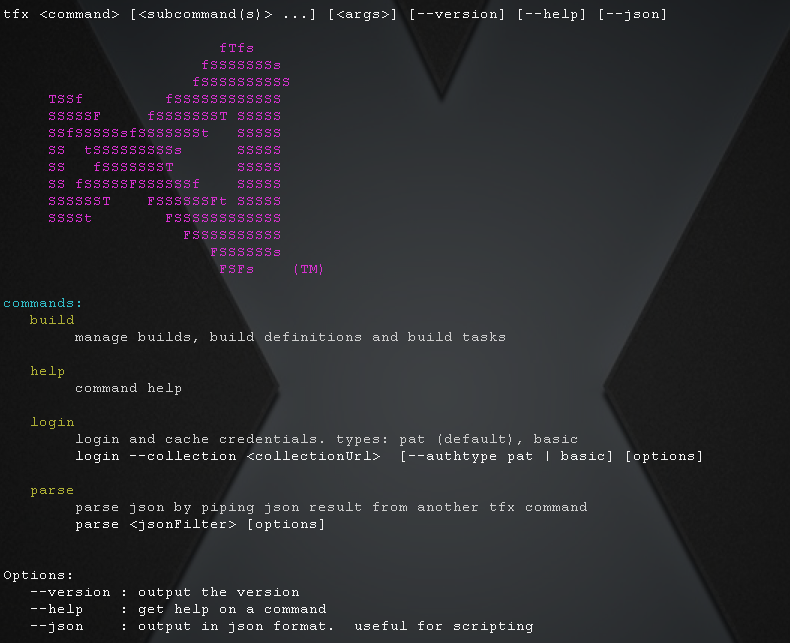
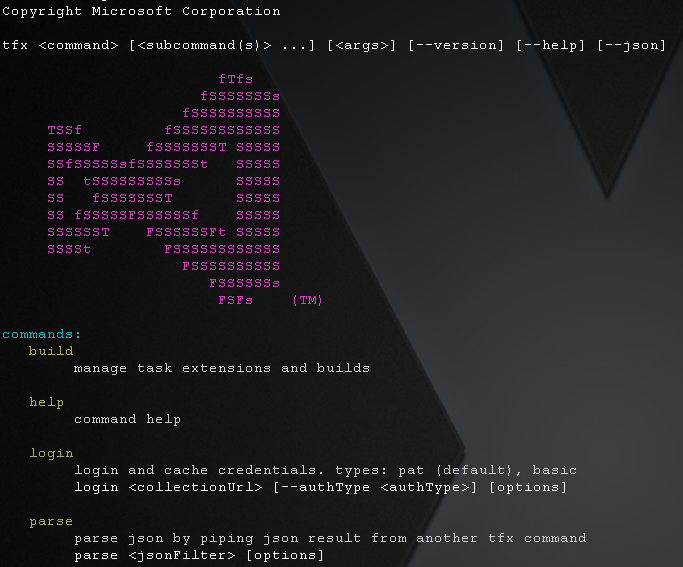
tfx extensions utility

diff --git a/app/exec/build.ts b/app/exec/build.ts
@@ -1,7 +1,7 @@
 import cmdm = require('../lib/tfcommand');
 
 export function describe(): string {
-    return 'manage builds, build definitions and build tasks';
+    return 'manage task extensions and builds';
 }
 
 export function getCommand(): cmdm.TfCommand {

diff --git a/README.md b/README.md
@@ -1,19 +1,19 @@
-# TFS Cross Platform Command Line
+# TFS Extensions Command Line Utility
 
 [![NPM version](https://badge.fury.io/js/tfs-cli.png)](http://badge.fury.io/js/tfs-cli)
 
-This is a cross platform command line which works on Windows, OSX and Linux.  It can be used to access and manage workitems, builds and source control.  It can also be used in scripting scenarios including support for outputting raw data in json and even piping it for parsing and extracting data in your scripts.
+This is a utility to manage extensions for TFS.  It is cross platform and supported on Windows, OSX and Linux.
 
-*Very early alpha/prototype state.*
+*Pre-release but supported*
 
 ![tfs-cli](docs/tfx-cli.png "TFS cross platform command line")
 
 ## Features:
 * Build
+    * task extensions: manage build tasks (list, upload, delete)
     * list: list builds and filter
     * queue: queue a build
-    * tasks: manage build tasks (list, upload, delete)
-* Workitem Tracking
+* App Extensions
     * comming soon
 * Scripting
     * json: write output in json format
@@ -21,11 +21,9 @@ This is a cross platform command line which works on Windows, OSX and Linux.  It
 
 ## Install
 ```bash
-npm install -g tfs-cli
+npm install -g tfx-cli
 ```
 
 ## Contributing
-
-Yes please!
 
 *Section Coming soon*
